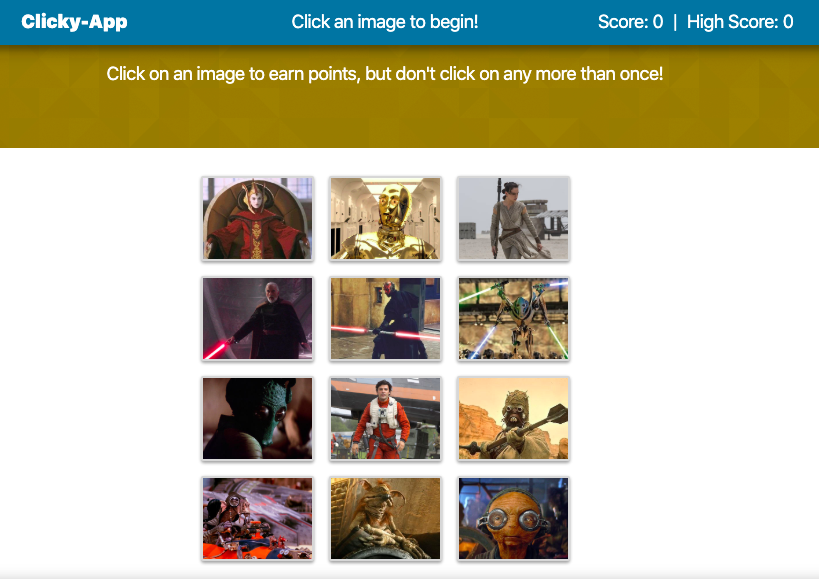
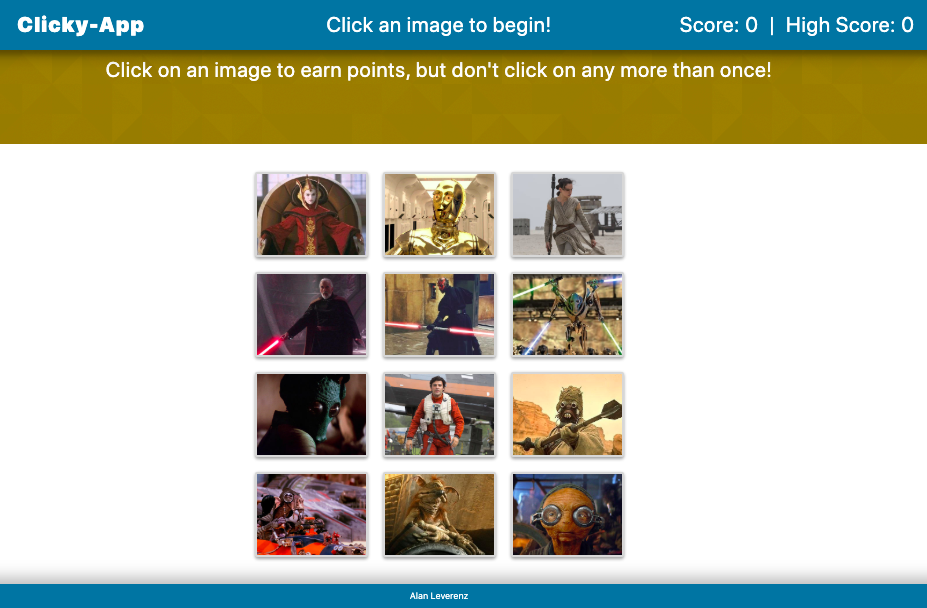
updated README with swebpage image URL

diff --git a/README.md b/README.md
@@ -1,5 +1,7 @@
 # Clicky-App
 
+![Clicky-App](https://github.com/AlanLeverenz/Clicky-App/blob/master/docs/clicky-app-page.png)
+
 __Clicky-App__ is a game that tests a player's memory. Twelve cards appear in a container. Each card contains a different image the user must remember whether they have clicked on it. The score increments with each successful choice. If a user clicks on a card that has already been clicked, the score resets to zero. The highest game score is also displayed.
 
 Click-App uses React as its view engine. React can be setup to pass 'props' to child components. It re-renders components and their child components when 'state' changes occur.
